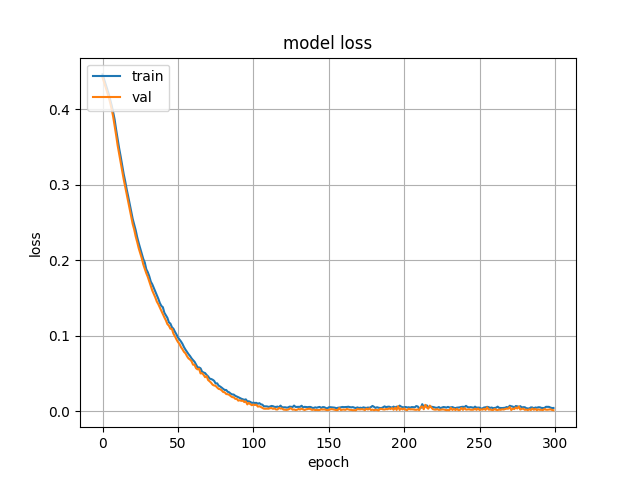
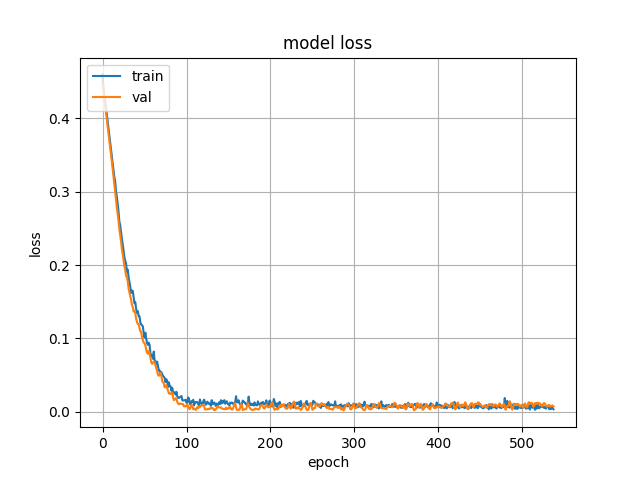
validation and scaling done

diff --git a/Method_2/PrTrain_CV_CSVinput_.py b/Method_2/PrTrain_CV_CSVinput_.py
@@ -110,7 +110,8 @@ SelectedModel.save_weights('SavedInitialWeights_tensors.h5')
 ''' ######################################## '''
 
 
-
+from sklearn.preprocessing import MinMaxScaler
+scaler = MinMaxScaler()
 
 import time
 
@@ -210,7 +211,7 @@ for train_idx, test_idx in kf10.split(IDs):
             
     X_VFs_tensor_train_del=np.delete(X_VFs_tensor_train, range(counter_+1,len(Data_PairedInfo_filtered)), 0)
     X_VFs_tensor_train_del[:,:,0]=X_VFs_tensor_train_del[:,:,0]/10000
-    Y_VFs_tensor_train_del=np.delete(Y_VFs_tensor_train, range(counter_+1,len(Data_PairedInfo_filtered)), 0)     
+    Y_VFs_tensor_train_del= np.delete(Y_VFs_tensor_train, range(counter_+1,len(Data_PairedInfo_filtered)), 0)     
     print('Number of samples - Training: ', Y_VFs_tensor_train_del.shape[0])
 
 #        plt.imshow(X_VFs_tensor_train_del[29,:,:,0])
@@ -298,21 +299,65 @@ for train_idx, test_idx in kf10.split(IDs):
             Y_VFs_tensor_test[counter_,:]= Data_VF_values_td[index_output_4_Data_VF.astype(int)] /50     
 
             
-    X_VFs_tensor_test_del=np.delete(X_VFs_tensor_test, range(counter_+1,len(Data_PairedInfo_filtered)), 0)
+    X_VFs_tensor_test_del= np.delete(X_VFs_tensor_test, range(counter_+1,len(Data_PairedInfo_filtered)), 0)
     X_VFs_tensor_test_del[:,:,0]=X_VFs_tensor_test_del[:,:,0]/10000
-    Y_VFs_tensor_test_del=np.delete(Y_VFs_tensor_test, range(counter_+1,len(Data_PairedInfo_filtered)), 0)        
+    Y_VFs_tensor_test_del= np.delete(Y_VFs_tensor_test, range(counter_+1,len(Data_PairedInfo_filtered)), 0)        
     
     
+
+    ''' Scaling and randomization ###########
+    '''  
+
+    X_test_0 = X_VFs_tensor_test_del
+    X_train_0 = X_VFs_tensor_train_del
+    Y_test = Y_VFs_tensor_test_del
+    Y_train_0 = Y_VFs_tensor_train_del
+
+    data4scale_train = np.reshape(X_train_0, (X_train_0.shape[0]*X_train_0.shape[1], X_train_0.shape[2]))
+    scaler.fit(data4scale_train)
+        
+    X_train_scaled = np.copy(X_train_0)
+    X_test_scaled = np.copy(X_test_0)
+    for sample in range(0, X_train_0.shape[0]):
+        #for time in range(0, X_train.shape[1]):
+        x= X_train_0[sample, :, : ]
+        X_train_scaled[sample, :, : ] = scaler.transform(x)
+    
+    for sample in range(0, X_test_0.shape[0]):
+        #for time in range(0, X_train.shape[1]):
+        x= X_test_0[sample, :, : ]
+        X_test_scaled[sample, :, : ] = scaler.transform(x)
+    
+       
+    RandomIndices = np.random.permutation(X_train_0.shape[0])
+    Indices4Val =  RandomIndices[0:round(0.1*X_train_0.shape[0])]
+    Indices4Train = RandomIndices[round(0.1*X_train_0.shape[0]):-1]
+    
+    X_train = X_train_scaled[Indices4Train,:,:]
+    Y_train = Y_train_0[Indices4Train,:]
+    
+    X_val = X_train_scaled[Indices4Val,:,:]    
+    Y_val = Y_train_0[Indices4Val,:]
+    
+    X_test = X_test_scaled
+
+
 #    plt.imshow(Y_VFs_tensor_test_del[0,:,:,0])
 #    plt.colorbar()        
     
 
     ''' Training ###########
     '''  
+
+    callback_stopEarly = tf.keras.callbacks.EarlyStopping(monitor='val_loss', patience=250, restore_best_weights=True)
+    callbacK_nan = tf.keras.callbacks.TerminateOnNaN()
+
     print('Training started ...')  
     start_time = time.time()     
-    History = SelectedModel.fit(X_VFs_tensor_train_del, Y_VFs_tensor_train_del, 
-                                validation_split=0.1, epochs=300, batch_size=2, verbose=0)#250-250
+    History = SelectedModel.fit(X_train, Y_train, 
+                                validation_data=(X_val, Y_val), epochs=1000, 
+                                batch_size=2, verbose=0, shuffle=True,
+                                callbacks=[callback_stopEarly, callbacK_nan ])#250-250
     elapsed_time = time.time() - start_time
     print('----- train elapsed time:', elapsed_time)
     
@@ -331,24 +376,24 @@ for train_idx, test_idx in kf10.split(IDs):
     '''  
     
     
-    print('Number of samples - Testing: ', Y_VFs_tensor_test_del.shape[0])
+    print('Number of samples - Testing: ', Y_test.shape[0])
     print('Testing started ...')
-    Y_pred_VFs_tensor_test_del=SelectedModel.predict(X_VFs_tensor_test_del)
+    Y_pred_VFs=SelectedModel.predict(X_test)
     #Y_pred_VFs_tensor_train_del=SelectedModel.predict(X_VFs_tensor_train_del)
     
 #    plt.imshow(Y_pred_VFs_tensor_test_del[0,:,:,0])
 #    plt.colorbar() 
     
     
-    Y_VFs_tensor_test_del=50*Y_VFs_tensor_test_del
-    Y_pred_VFs_tensor_test_del=50*Y_pred_VFs_tensor_test_del
+    Y_test= 50*Y_test
+    Y_pred_VFs= 50*Y_pred_VFs
     
            
     NameTruth=OutputFolder+'TDV_Fold_' +str(fold_counter) +'_truth.csv' 
     NamePred=OutputFolder+'TDV_Fold_' + str(fold_counter) +'_pred.csv'
             
-    np.savetxt(NameTruth, Y_VFs_tensor_test_del, delimiter=',', fmt='%1.3f')   
-    np.savetxt(NamePred, Y_pred_VFs_tensor_test_del, delimiter=',', fmt='%1.3f') 
+    np.savetxt(NameTruth, Y_test, delimiter=',', fmt='%1.3f')   
+    np.savetxt(NamePred, Y_pred_VFs, delimiter=',', fmt='%1.3f') 
     
 os.remove('SavedInitialWeights_tensors.h5')        
         
